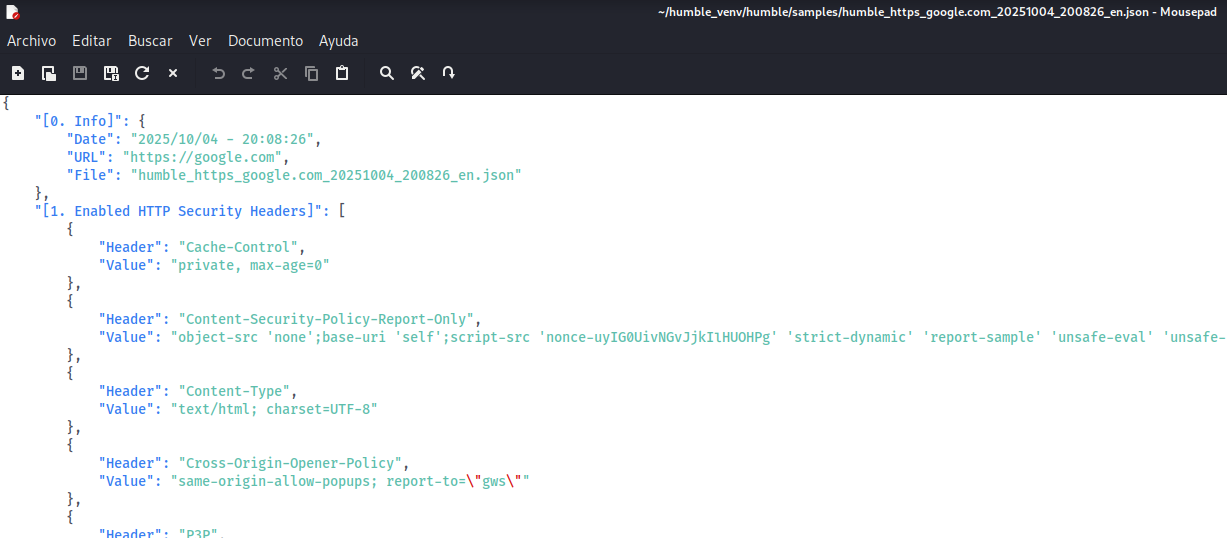
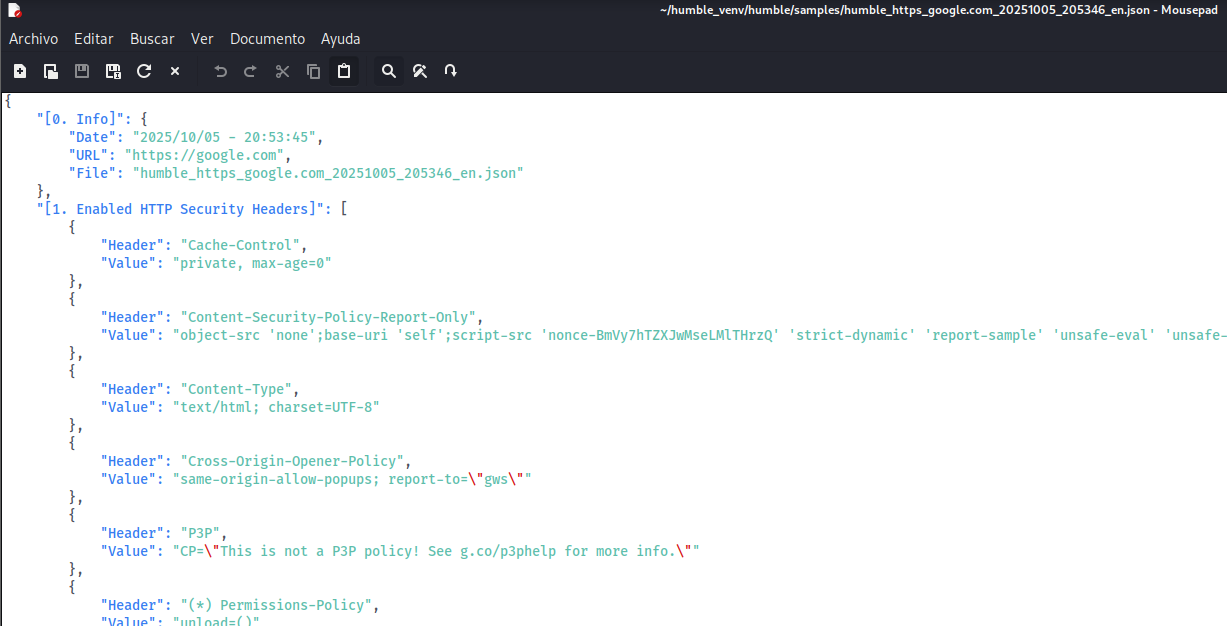
Minor: Code optimizations

diff --git a/humble.py b/humble.py
@@ -1867,7 +1867,8 @@ def write_json_detailed(json_lns, json_section, json_miss_h, json_miss_d,
         BOLD_STRINGS[6]:
             lambda: json_detailed_empty(json_lns),
         BOLD_STRINGS[7]:
-            lambda: format_json_detailed(json_lns, is_l10n=True),
+            lambda: format_json_detailed(json_lns, is_compat=True,
+                                         is_l10n=True),
         BOLD_STRINGS[8]:
             lambda: json_detailed_results(json_lns),
     }
@@ -1919,10 +1920,14 @@ def json_detailed_response(json_lns):
     return result
 
 
-def format_json_detailed(json_lns, is_l10n=False):
+def format_json_detailed(json_lns, is_compat=False, is_l10n=False):
     l10n_txt = '[json_det_refs]' if is_l10n else '[json_det_fngval]'
-    header_t, value_t = [get_detail(text, replace=True) for text in
-                         ['[json_det_fngheader]', l10n_txt]]
+    if is_compat:
+        header_t = get_detail('[json_det_fngheader]', replace=True)
+        value_t = get_detail(l10n_txt, replace=True)[:-1]
+    else:
+        header_t, value_t = [get_detail(text, replace=True) for text in
+                             ['[json_det_fngheader]', l10n_txt]]
     result = []
     for line in json_lns:
         line = line.strip()

diff --git a/README.md b/README.md
@@ -179,7 +179,7 @@ Options used: -f -g -p -U -s --hints
 <img src="https://github.com/rfc-st/humble/blob/master/screenshots/humble_html_s.PNG" alt="(Linux) - Detailed analysis saved as HTML">
 </p>
 <br />
-.: (Linux) - Detailed analysis saved as JSON. <a href="https://github.com/rfc-st/humble/raw/master/samples/humble_https_google.com_20251004_200826_en.json">Example.</a><br />
+.: (Linux) - Detailed analysis saved as JSON. <a href="https://github.com/rfc-st/humble/raw/master/samples/humble_https_google.com_20251005_205346_en.json">Example.</a><br />
 <p></p>
 <p align="center">
 <img src="https://github.com/rfc-st/humble/blob/master/screenshots/humble_json_s.PNG" alt="(Linux) - Brief analysis saved as JSON">
